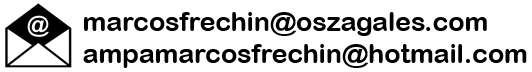
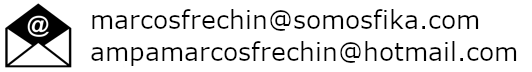
Inicio 24 25
Ajustes actividades

Changed region(s): [[0.1504, 0.5556, 0.9925, 0.9444], [0.1504, 0.1111, 0.9323, 0.5]]

diff --git a/_posts/actividades/2024-09-22-actividades2425.md b/_posts/actividades/2024-09-22-actividades2425.md
@@ -18,8 +18,10 @@ comments: true
 
 Este año, vuelve a extenderse la oferta de actividades extraescolares, gracias a la asociación que se ha establecido entre AMPAs y equipos directivos de los colegios CEIP Marcos Frechín y nuestros vecinos del CEIP Torreramona. Nuestros hijos van a poder disfrutar de más actividades, aunque algunas de ellas puede que se realicen en sólo uno de los dos colegios, por lo que los monitores recogerán a los niños del otro colegio y los trasladarán al lugar en el que se vaya a realizar la actividad.
 
+![Extraescolares 2024/25](/images/extraescolares2425/cartelFika.jpg "Extraescolares 2024/25")
+
 ### Ya me lo sé todo, quiero inscribir a mis hijos/as
-<a href="https://inscripciones.oszagales.com" target="_blank" class="button large radius alert">PULSA AQUÍ para inscribir a tu/s hijos/as en las actividades ONLINE</a>
+<a href="https://www.somosfika.com/inscripciones/" target="_blank" class="button large radius alert">PULSA AQUÍ para inscribir a tu/s hijos/as en las actividades ONLINE</a>
 Código: FRECHIN2425
 
 Como en años anteriores, si la familia se inscribe y paga la cuota anual de la AMPA **(15 Euros por año y familia)**, no tendrán que pagar la matrícula de la actividad, que **en caso de que la familia no sea socia del AMPA o no esté al corriente de pago de la cuota anual en Octubre de 2024, será de 30 Euros por alumno**.
@@ -118,7 +120,7 @@ Si hay alguna duda o consulta al respecto de las actividades extraescolares, pod
 
 [![Emails de contacto](/images/emailsExtraescolares.png "Emails de contacto")](mailto:marcosfrechin@oszagales.com)
 
-Llamar al siguiente teléfono (David, de 9:00 a 14:00):
+Llamar al siguiente teléfono (Laura, de 9:00 a 14:00):
 
 [![Teléfono Os Zagales](/images/tlfOsZagales.png "Teléfono Os Zagales")](tel:+34680154655)
 
